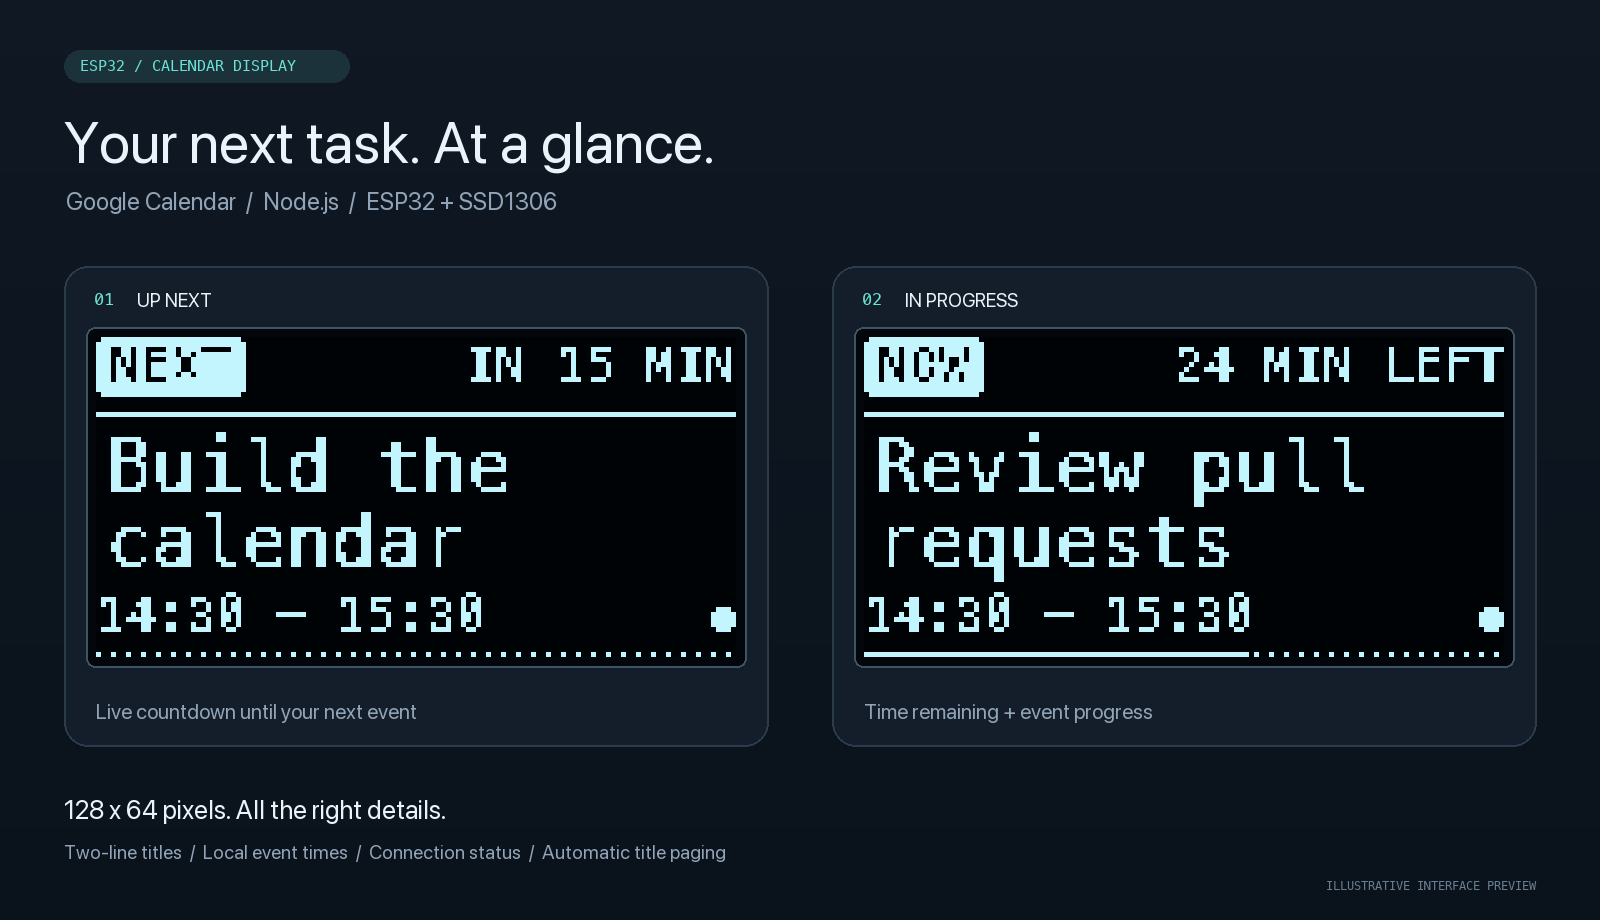
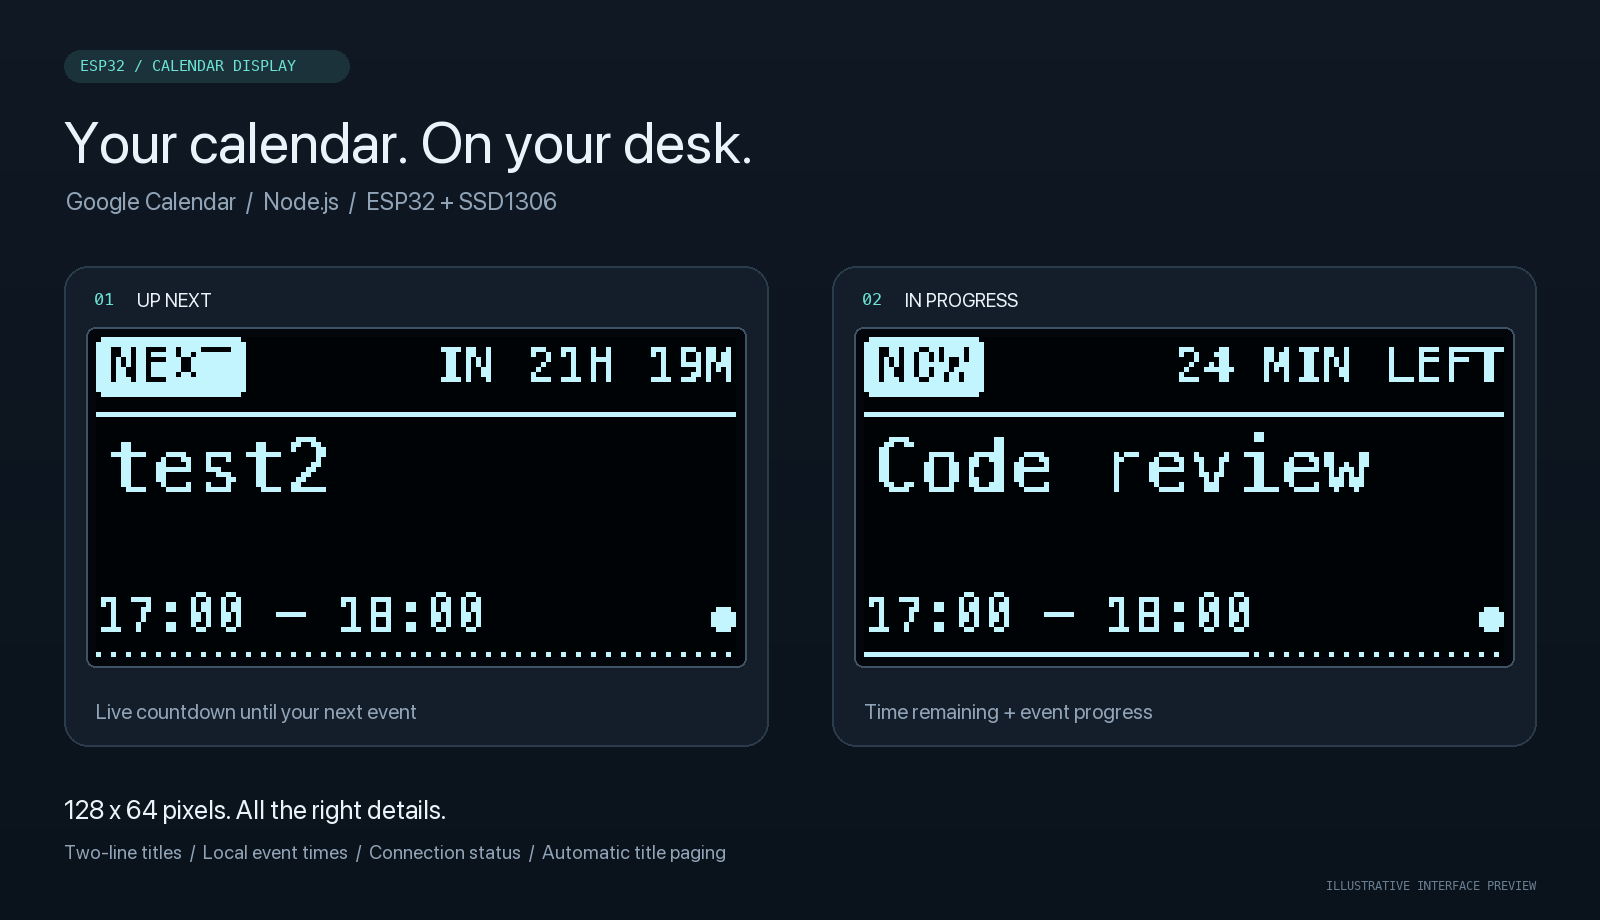
Refresh display preview and add hardware photo

diff --git a/README.md b/README.md
@@ -15,6 +15,12 @@ Illustrative preview of the 128×64 interface: upcoming and active event states,
 two-line titles, local event times, and a connection indicator. Longer titles
 automatically advance through two-line pages.
 
+### On real hardware
+
+<img src="docs/hardware-photo.jpg" alt="Working SSD1306 calendar display showing the test2 event, a live countdown, and the 17:00–18:00 time range" width="560">
+
+The running display on an SSD1306 module, photographed from the working setup.
+
 ## 1. Start the home server
 
 Install dependencies and create your local configuration from the project root:
